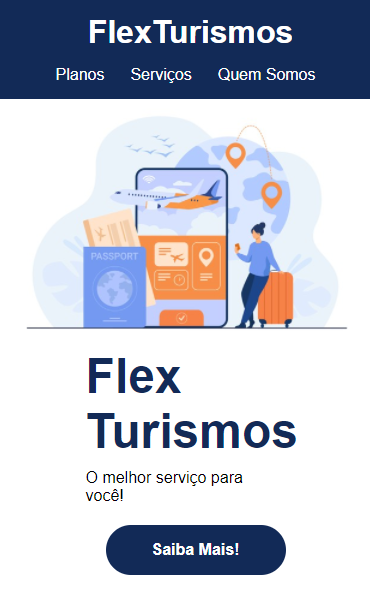
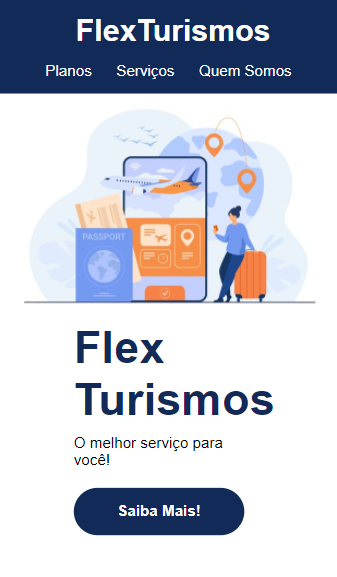
atualizacao de prints

Changed region(s): [[0.0, 0.0312, 1.0, 0.9983]]

diff --git a/style.css b/style.css
@@ -70,8 +70,6 @@ header .menu{
     margin-bottom: 10px;
 }
 
-
-
 #quem-somos{
     flex-direction: row-reverse;
     align-items: center;
@@ -122,7 +120,6 @@ header .menu{
 
 #servicos h2{
     margin: 50px 0 30px 0;
-
     font-size: 32px;
 }
 
@@ -152,6 +149,7 @@ header .menu{
     line-height: 50px;
     font-weight: 700;  
     text-align: center; 
+    margin-left: 0;
 }
 
 .item-servico img{
@@ -295,21 +293,30 @@ footer .footer{
         align-items: flex-start;
         margin-bottom: 20px;
     }
-    
+
+    #servicos h2{
+       margin-right: 20px;
+    }
+
     .list-planos .item-plano{
         max-width: 80%;
         width: 100%;
         margin-bottom: 20px;
         align-self: center;
     }
+
     #planos h2{
         margin-bottom: 20px;
         align-items: center;
     }
 
-    .item-servico .button-white{
+    .item-servico .button-white {
         align-self: center;
         max-height: 200px;
+    }
+
+    .button-blue{
+        margin-left: 0;
     }
 
     footer{
